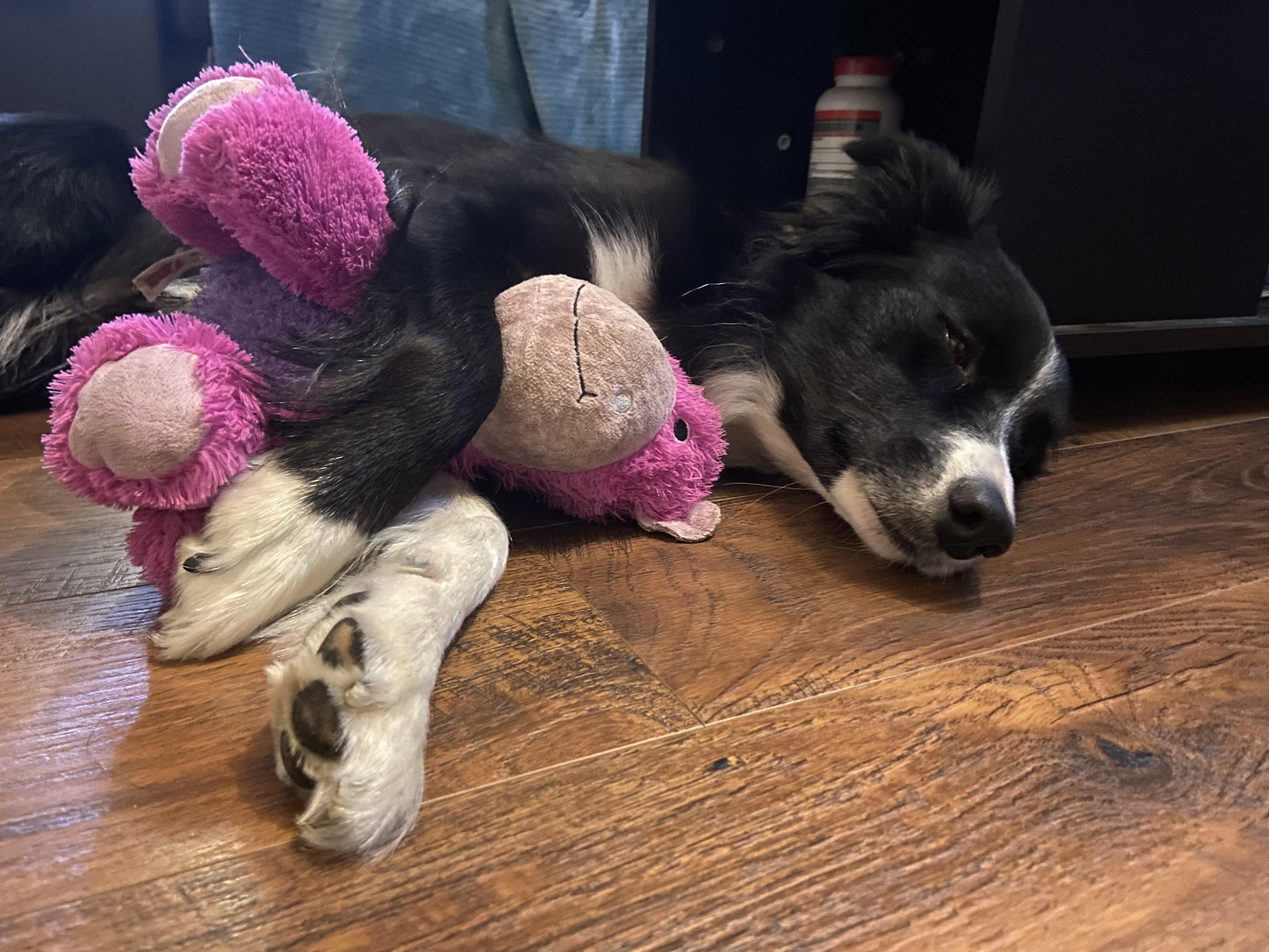
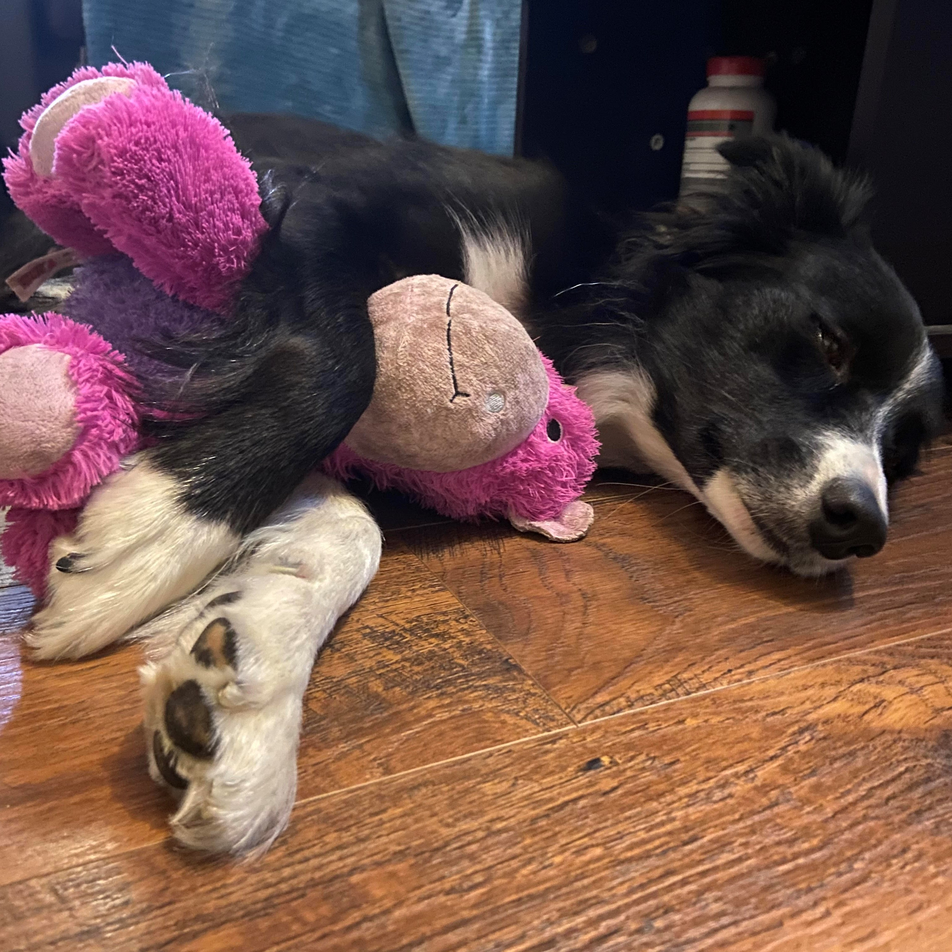
Added css styling, gallery page, and edited images

diff --git a/index.html b/index.html
@@ -4,65 +4,76 @@
     <meta charset="UTF-8">
     <meta http-equiv="X-UA-Compatible" content="IE=edge">
     <meta name="viewport" content="width=device-width, initial-scale=1.0">
+    <link rel="stylesheet" type="text/css" media="screen" href="./css/style.css">
+    <link rel="preconnect" href="https://fonts.googleapis.com">
+    <link rel="preconnect" href="https://fonts.gstatic.com" crossorigin>
+    <link href="https://fonts.googleapis.com/css2?family=Roboto:ital,wght@0,400;0,500;0,700;0,900;1,300&display=swap" rel="stylesheet">
     <title>Odin Landing Page</title>
 </head>
 <body>
-    <div class="footer">
-        <footer>
-           <img src="./img/tinkerbear-logo-white.png" alt="">
+        <header>
+           <a href="index.html"><img class="logo" src="./img/tinkerbear-logo-white.png" alt=""></a>
+
+           <nav class="header-links">
+            <p><a href="./index.html" target="_blank">Home</a></p>
            <p><a href="https://github.com/ChristineCPham" target="_blank">Github</a></p> 
            <p><a href="https://www.linkedin.com/in/christine-p-b456751a6/" target="_blank">LinkedIn</a></p>
-           <p><a href="https://thewatchdogonline.com/author/christinepham" target="_blank">Articles</a></p>
-        </footer>
-    </div>
+          </nav>
+        </header>
 
     <div class="overview">
+    <div class="overview-text">
         <h1>This website is dogsome</h1>
-        <p>This website is all about my dog, Tinkerbear. She is a four year old border collie. Tinkerbear is a good girl and she can prove it!</p>
-        <button><a href="https://www.linkedin.com/in/christine-p-b456751a6/" target="_blank">Contact Us</a></button>
-        <img src="img/tinkerbear-pink-toy-two.jpg">
+        <p>This website is all about my dog, <b>Tinkerbear</b>. She is a four year old border collie. Tinkerbear is a good girl and she can prove it!</p>
+        <button><a href="./pages/gallery.html" target="">Tinkerbear Gallery</a></button>
+    </div>
+        <img src="img/tinkerbear-with-toy.jpg">
     </div>
 
     <div class="info">
         <h2>Who is Tinkerbear?</h2>
-
+    <div class="info-sections">
         <div class="play">
-            <img src="img/tinkerbear-tugawar-hearts.jpg" alt="">
-            <p>Tinkerbear enjoys playing every second she can. As long as there is a toy nearby, she will not rest. Tinkerbear likes balls and squeaky toys the most.</p>
+            <img src="img/tinkerbear-tugawar.jpg" alt="">
+            <p>Tinkerbear enjoys playing every second she can. She will play non-stop with her squeaky toys and basketballs.</p>
         </div>
 
         <div class="studying">
-            <img src="img/tinkerbear-studying-edited.jpg" alt="Tinkerbear is studying with a laptop and textbook.">
-            <p>As an intellectual, Tinkerbear places an high important on her education. Her favorite classes are: Human Training 101, Stealing Food 301, and Chasing Cats 201.</p>
+            <img src="img/tinkerbear-studying.jpg" alt="Tinkerbear is studying with a laptop and textbook.">
+            <p>Tinkerbear places an high importance on her education. Her favorite class is Human Training 101.</p>
         </div>
 
         <div class="begging">
             <img src="img/tinkerbear-begging.jpg" alt="Tinkerbear is begging for food on the couch.">
-            <p>Tinkerbear has mastered the art of begging. With in five minutes, she can convince guests to give her a day's worth of food. Her owner does not approve of this behavior.</p>
+            <p>Tinkerbear has mastered the art of begging for food, as shown above. How can you resist that face?</p>
         </div>
 
-        <div class="scare">
-            <img src="img/tinkerbear-under-bed-three.jpg" alt="Tinkerbear is hiding under the bed.">
-            <p>Tinkerbear is a big scaredy-cat. She will take refuge under the bed whenever she hears fireworks. If she hears them outdoors, she will run behind large men.</p>
+        <div class="baby">
+            <img src="img/tinkerbear-under-bed.jpg" alt="Tinkerbear is hiding under the bed.">
+            <p>Tinkerbear is a big baby. She will take refuge under the bed whenever she hears fireworks and refuse to come out.</p>
         </div>
+    </div>
 
     </div>
 
     <div class="quote-section">
-        <p class="quote">"Dogs teach us a very important lesson in life: The mail man is not to be trusted"</p>
+        <p class="quote">"Dogs teach us a very important lesson in life: The mail man is not to be trusted."</p>
         <p class="quote-author">-Sian Ford</p>
     </div>
 
     <div class="cta-section">
-        <div class="cta=box">
-            <p class="cta-title">Contact us for more information about Tinkerbear!</p>
-            <p>Tinkerbear is currently not availible for performances, due to her busy play-eat-sleep schedule. However she is open to conversing in the following languages: Barkies, Ruff Ruff, and Woofers.</p>
-            <button><a href="https://www.linkedin.com/in/christine-p-b456751a6/" target="_blank">Contact Us</a></button>
+        <div class="cta-box">
+        <div class="cta-info">
+            <p class="cta-title">Learn more about Tinkerbear!</p>
+            <p class="cta-text">Tinkerbear is currently not available for barking performances due to her busy playing and eating schedule.</p>
         </div>
+            <button class="cta-button"><a href="https://www.linkedin.com/in/christine-p-b456751a6/" target="_blank"><nobr>Contact Us</nobr></a></button>
+     </div>
+
     </div>
 
-    <div class="footer">
+    <footer class="footer">
         <p>Copyright © The Odin Project 2021</p>
-    </div>
+    </footer>
 </body>
 </html>

diff --git a/css/style.css b/css/style.css
@@ -1,0 +1,203 @@
+* {
+    font-family: 'Roboto', sans-serif;
+    --white: #F9FAF8;
+    --light-gray: #E5E7EB;
+    --blue: #3882F6;
+    --dark-blue: #1F2937;
+    --padding: 1% 15%;
+    margin: 0%;
+}
+
+a {
+    text-decoration: none;
+    color: var(--white);
+}
+
+header {
+    display: flex;
+    flex-direction: row;
+    justify-content: space-between;
+    align-items: center;
+    background-color: var(--dark-blue);
+    color: var(--white);
+    padding: 5vh 15%;
+}
+
+.logo {
+    width: 20%;
+}
+
+.header-links {
+    display: flex;
+    flex-direction: row;
+    justify-content: space-between;
+    gap: 5vw;
+}
+
+.header-links p:hover {
+    border-bottom: .2em solid white;
+}
+
+.overview {
+    background-color: var(--dark-blue);
+    color: var(--white);
+    padding: 5% 15% 10%;
+    display: flex;
+    flex-direction: row;
+    gap: 10%;
+    align-items: center;
+}
+
+.overview-text {
+    display: flex;
+    flex-direction: column;
+    width: 40vw;
+}
+
+.overview h1 {
+    font-size: 3em;
+    font-weight: 700;
+    padding: 3% 0%;
+}
+
+.overview p {
+    font-size: 1.125em;
+    padding: 3% 0%;
+}
+
+.overview button {
+    background-color: var(--blue);
+    color: var(--white);
+    font-size: 1.125em;
+    border: .2em solid transparent;
+    border-radius: 1vh;
+    margin: 3% 0%;
+    padding: 2% 5%;
+    width: fit-content;
+}
+
+.overview img {
+    width: 40vw;
+    height: 25vw;
+    
+}
+
+.info {
+    background-color: white;
+    color: var(--dark-blue);
+    padding: 1% 15% 10%;
+}
+
+.info h2 {
+    color: var(--dark-blue);
+    font-size: 2.25em;
+    font-weight: 700;
+    text-align: center;
+    padding: 4% 0%;
+}
+
+.info-sections {
+    display: flex;
+    flex-direction: row;
+    align-items: flex-start;
+    justify-content: space-evenly;
+    flex-wrap: nowrap;
+}
+
+.info-sections > div {
+    margin: 2vw;
+}
+
+.info-sections p {
+    padding: 2%;
+    text-align: center;
+}
+
+.info img {
+    width: 15vw;
+    height: 15vw;
+    border: .2em solid transparent;
+    border-radius: 10%;
+}
+
+.quote-section {
+    background-color: var(--light-gray);
+    padding: 10% 15%;
+}
+
+.quote {
+    font-size: 2.25em;
+    font-style: italic;
+    font-weight: 300;
+}
+
+.quote-author {
+    font-size: 1.125em;
+    font-weight: 500;
+    text-align: right;
+}
+
+.cta-section {
+    padding: 10% 5%;
+}
+
+.cta-box {
+    background-color: var(--blue);
+    color: var(--light-gray);
+    padding: 5% 10%;
+    display: flex;
+    flex-direction: row;
+    align-items: center;
+    gap: 15vw;
+    border: .1em solid var(--white);
+    border-radius: 2vh;
+}
+
+.cta-info {
+    width: 50vw;
+}
+
+.cta-title {
+    font-size: 1.125em;
+    font-weight: 600;
+    padding-bottom: 3%;
+}
+
+.cta-text {
+    font-size: 1em;
+    font-weight: 300;
+}
+
+.cta-button {
+        background-color: var(--blue);
+        color: var(--white);
+        font-size: 1.125em;
+        border: .1em solid var(--white);
+        border-radius: 1vh;
+        width: fit-content;
+        height: fit-content;
+        padding: 2% 5%;
+}
+
+footer {
+    background-color: var(--dark-blue);
+    color: var(--white);
+    text-align: center;
+    padding: 2em 15%;
+    font-size: .9em;
+}
+.gallery {
+    padding: 5% 15% 0%;
+    display: flex;
+    flex-wrap: wrap;
+}
+
+.gallery img {
+    width: 30%;
+    padding: 1% 1%;
+}
+
+.gallery-text {
+    text-align: center;
+    padding: 10% 15%;
+}

diff --git a/pages/gallery.html b/pages/gallery.html
@@ -1,0 +1,44 @@
+<!DOCTYPE html>
+<html lang="en">
+<head>
+    <meta charset="UTF-8">
+    <meta http-equiv="X-UA-Compatible" content="IE=edge">
+    <meta name="viewport" content="width=device-width, initial-scale=1.0">
+    <link rel="stylesheet" type="text/css" media="screen" href="../css/style.css">
+    <link rel="preconnect" href="https://fonts.googleapis.com">
+    <link rel="preconnect" href="https://fonts.gstatic.com" crossorigin>
+    <link href="https://fonts.googleapis.com/css2?family=Roboto:ital,wght@0,400;0,500;0,700;0,900;1,300&display=swap" rel="stylesheet">
+    <title>Tinkerbear Gallery</title>
+</head>
+<body>
+    <header>
+        <a href="index.html"><img class="logo" src="../img/tinkerbear-logo-white.png" alt=""></a>
+
+        <nav class="header-links">
+         <p><a href="../index.html" target="">Home</a></p>
+        <p><a href="https://github.com/ChristineCPham" target="_blank">Github</a></p> 
+        <p><a href="https://www.linkedin.com/in/christine-p-b456751a6/" target="_blank">LinkedIn</a></p>
+       </nav>
+     </header>
+
+     <div class="gallery">
+         <img src="../img/tinkerbear-close-up-five.jpg" alt="A close-up of Tinkerbear staring.">
+         <img src="../img/tinkerbear-close-up-four.jpg" alt="A close-up of Tinkerbear smiling.">
+         <img src="../img/tinkerbear-close-up-three.jpg" alt="A close-up of Tinkerbear.">
+         <img src="../img/tinkerbear-close-up-two.jpg" alt="A close-up of Tinkerbear's nose">
+         <img src="../img/tinkerbear-close-up.jpg" alt="A close-up of Tinkerbear on a bed.">
+         <img src="../img/tinkerbear-hugging-toy.jpg" alt="Tinkerbear hugging a pink toy.">
+         <img src="../img/tinkerbear-smile-gray-toy.jpg" alt="Tinkerbear smiling with her head on a gray toy.">
+         <img src="../img/tinkerbear-smile.jpg" alt="Tinkerbear smiling widely">
+         <img src="../img/tinkerbear-sleepy.jpg" alt="Tinkerbear is lying sleepily in her crate">
+     </div>
+
+     <div class="gallery-text">
+         <p>Please do not use these images without permission.</p>
+     </div>
+
+     <footer class="footer">
+        <p>Copyright © The Odin Project 2021</p>
+    </footer>
+</body>
+</html>
